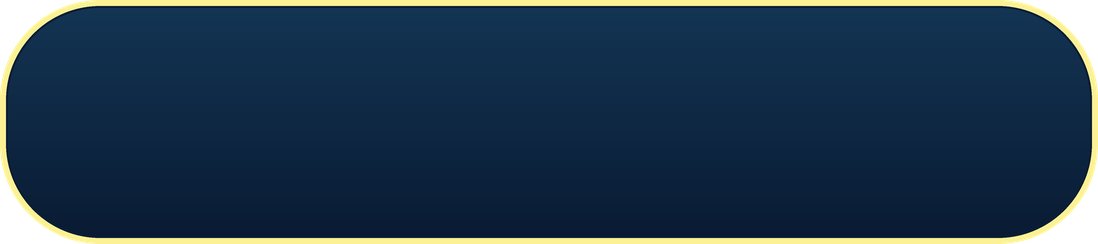
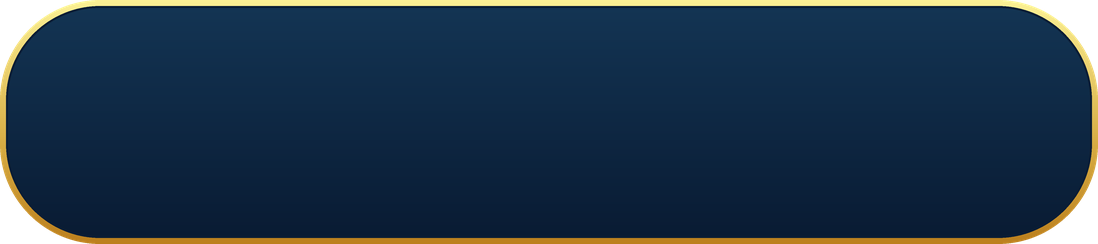
fix(ui): the other two gold pills get their gradient rim
S_DailyPillPanel and S_GpsPill baked a SOLID #FCF195 rim. The Figma component
they both come from strokes with a three-stop vertical gradient:

    #FCF195 @0  ->  #D6AB42 @0.6  ->  #BB7F1D @1

Both were written from `get_design_context`, which renders that stroke as
`border-[#fcf195]` — the first stop, silently — so the flat rim was inherited,
not chosen. Confirmed instance by instance from each node's own SVG export
(13994:1963 the daily pill, 14060:4638 the Home GPS pill, 14060:4722 the hub back
pill): all three carry the identical stroke.

The change is one helper per baker — a vertical `gold_plate()` replacing the solid
fill — so the recipe the two scripts share stays a twin of the other's.

VERIFIED AS RENDERED, not just in the PNGs. On Home, sampling the centre column
through each pill:

    GPS pill    rim #FBEF95 (top) -> #BB801E (bottom),  fill #133453 -> #091C34
    daily pill  rim #FCF095 (top) -> #BB801E (bottom)

which is the node's ramp within 1-2/255. The GPS pill also matches its own Figma
reference render at dRGB 1.7 / 2.4 / 0.0 top/mid/bottom — the same reference that
proved the flat rim wrong in the first place.

S_DailyPillGlow is deliberately NOT changed: it is an additive halo, not a rim,
and its baker already documents why the colour is held flat while alpha carries
the falloff. Re-baking it produced byte-identical output, which is the proof this
change touched only what it meant to.
[…]

Changed region(s): [[0.031, 0.8893, 0.9599, 1.0], [0.9599, 0.1721, 1.0, 0.918], [0.0, 0.1721, 0.031, 0.8893]]

diff --git a/Docs/Scripts/make_daily_pill_panel.py b/Docs/Scripts/make_daily_pill_panel.py
@@ -42,7 +42,18 @@ from PIL import Image, ImageDraw, ImageFilter
 # ── The node's tokens, 1x ────────────────────────────────────────────────────
 W, H = 549, 122
 RADIUS = 50
-GOLD = (0xFC, 0xF1, 0x95, 255)   # border-3 #FCF195
+GOLD = (0xFC, 0xF1, 0x95, 255)   # the border's TOP stop; still the flat colour the glow uses
+
+# ⚠ THE BORDER IS A THREE-STOP VERTICAL GRADIENT, AND `get_design_context` DOES NOT SAY SO.
+# Its Tailwind output renders this stroke as `border-[#fcf195]` — the first stop, silently — and
+# that is what this script baked (flat) until 2026-09-02. The node's own SVG export is the truth:
+#   <rect ... stroke="url(#paint1_linear...)" stroke-width="3"/>
+#   <linearGradient id="paint1_linear..."> #FCF195 @0 · #D6AB42 @0.6 · #BB7F1D @1
+# Verified on all three instances of this component: 13994:1963 (this pill), 14060:4638 (the Home
+# GPS pill) and 14060:4722 (the GPS hub back pill). Read the SVG, never the CSS.
+GOLD_STOPS = ((0.0, (0xFC, 0xF1, 0x95)),
+              (0.6, (0xD6, 0xAB, 0x42)),
+              (1.0, (0xBB, 0x7F, 0x1D)))
 INNER = (0x0A, 0x1D, 0x35, 255)  # Pop-Up border-1 #0A1D35
 TOP = (0x13, 0x34, 0x53)         # gradient from
 BOT = (0x09, 0x1B, 0x33)         # gradient to
@@ -65,12 +76,36 @@ def rounded(size, radius, fill):
     return img
 
 
+def _ramp(stops, t):
+    """Multi-stop linear colour ramp, clamped."""
+    t = min(1.0, max(0.0, t))
+    for i in range(len(stops) - 1):
+        t0, c0 = stops[i]
+        t1, c1 = stops[i + 1]
+        if t0 <= t <= t1:
+            f = 0.0 if t1 == t0 else (t - t0) / (t1 - t0)
+            return tuple(round(a + (b - a) * f) for a, b in zip(c0, c1))
+    return stops[-1][1]
+
+
+def gold_plate(size, radius):
+    """The border plate as a VERTICAL gradient, masked to the pill silhouette."""
+    w, h = size
+    col = Image.new("RGBA", (1, h))
+    for y in range(h):
+        col.putpixel((0, y), _ramp(GOLD_STOPS, y / max(1, h - 1)) + (255,))
+    plate = col.resize((w, h), Image.NEAREST)
+    plate.putalpha(rounded(size, radius, (255, 255, 255, 255)).getchannel("A"))
+    return plate
+
+
 def build() -> Image.Image:
     s = SCALE * SS
     w, h = W * s, H * s
 
     # 1. The gold plate — the outermost 3px ring is whatever of this stays uncovered.
-    out = rounded((w, h), RADIUS * s, GOLD)
+    #    Graded top-to-bottom, per the node's three-stop stroke (see GOLD_STOPS).
+    out = gold_plate((w, h), RADIUS * s)
 
     # 2. The 1px inner rule, inset by the gold border.
     i1 = GOLD_PX * s

diff --git a/Docs/Scripts/make_gps_pill.py b/Docs/Scripts/make_gps_pill.py
@@ -43,7 +43,18 @@ from PIL import Image, ImageDraw
 # ── The node's tokens, 1x ────────────────────────────────────────────────────
 W, H = 138, 92
 RADIUS = 50
-GOLD = (0xFC, 0xF1, 0x95, 255)   # border-3 #FCF195
+GOLD = (0xFC, 0xF1, 0x95, 255)   # the border's TOP stop; still the flat colour the glow uses
+
+# ⚠ THE BORDER IS A THREE-STOP VERTICAL GRADIENT, AND `get_design_context` DOES NOT SAY SO.
+# Its Tailwind output renders this stroke as `border-[#fcf195]` — the first stop, silently — and
+# that is what this script baked (flat) until 2026-09-02. The node's own SVG export is the truth:
+#   <rect ... stroke="url(#paint1_linear...)" stroke-width="3"/>
+#   <linearGradient id="paint1_linear..."> #FCF195 @0 · #D6AB42 @0.6 · #BB7F1D @1
+# Verified on all three instances of this component: 13994:1963 (this pill), 14060:4638 (the Home
+# GPS pill) and 14060:4722 (the GPS hub back pill). Read the SVG, never the CSS.
+GOLD_STOPS = ((0.0, (0xFC, 0xF1, 0x95)),
+              (0.6, (0xD6, 0xAB, 0x42)),
+              (1.0, (0xBB, 0x7F, 0x1D)))
 INNER = (0x0A, 0x1D, 0x35, 255)  # Pop-Up border-1 #0A1D35
 TOP = (0x13, 0x34, 0x53)         # gradient from
 BOT = (0x09, 0x1B, 0x33)         # gradient to
@@ -62,12 +73,36 @@ def rounded(size, radius, fill):
     return img
 
 
+def _ramp(stops, t):
+    """Multi-stop linear colour ramp, clamped."""
+    t = min(1.0, max(0.0, t))
+    for i in range(len(stops) - 1):
+        t0, c0 = stops[i]
+        t1, c1 = stops[i + 1]
+        if t0 <= t <= t1:
+            f = 0.0 if t1 == t0 else (t - t0) / (t1 - t0)
+            return tuple(round(a + (b - a) * f) for a, b in zip(c0, c1))
+    return stops[-1][1]
+
+
+def gold_plate(size, radius):
+    """The border plate as a VERTICAL gradient, masked to the pill silhouette."""
+    w, h = size
+    col = Image.new("RGBA", (1, h))
+    for y in range(h):
+        col.putpixel((0, y), _ramp(GOLD_STOPS, y / max(1, h - 1)) + (255,))
+    plate = col.resize((w, h), Image.NEAREST)
+    plate.putalpha(rounded(size, radius, (255, 255, 255, 255)).getchannel("A"))
+    return plate
+
+
 def build() -> Image.Image:
     s = SCALE * SS
     w, h = W * s, H * s
 
     # 1. The gold plate — the outermost 3px ring is whatever of this stays uncovered.
-    out = rounded((w, h), RADIUS * s, GOLD)
+    #    Graded top-to-bottom, per the node's three-stop stroke (see GOLD_STOPS).
+    out = gold_plate((w, h), RADIUS * s)
 
     # 2. The 1px inner rule, inset by the gold border.
     i1 = GOLD_PX * s

diff --git a/Docs/Architecture/UI_ELEMENT_PALETTE.md b/Docs/Architecture/UI_ELEMENT_PALETTE.md
@@ -56,16 +56,19 @@ SCRIPT, never the PNG.
 > `#FCF195 → #D6AB42 (0.6) → #BB7F1D`. All three came from trusting the tool's Tailwind output,
 > which renders that stroke as `border-[#fcf195]` — the first stop, silently.
 >
-> | sprite | baker | rim |
-> |---|---|---|
-> | `S_DailyPillPanel.png` (Home daily pill) | `make_daily_pill_panel.py` | flat — **wrong** |
-> | `S_GpsPill.png` (Home GPS entry pill) | `make_gps_pill.py` | flat — **wrong** |
-> | `S_GpsBackPill.png` (GPS hub back pill) | `make_gps_back_pill.py` | 3-stop gradient — correct |
+> | sprite | baker | node | rim |
+> |---|---|---|---|
+> | `S_DailyPillPanel.png` (Home daily pill) | `make_daily_pill_panel.py` | `13994:1963` | 3-stop gradient ✓ |
+> | `S_GpsPill.png` (Home GPS entry pill) | `make_gps_pill.py` | `14060:4638` | 3-stop gradient ✓ |
+> | `S_GpsBackPill.png` (GPS hub back pill) | `make_gps_back_pill.py` | `14060:4722` | 3-stop gradient ✓ |
 >
-> Proof for the middle row is in that task's own folder: sample
-> `Docs/Specs/Active/gps_pill_entry/reference/gps_pill_14060-4638_4x.png` and the rim reads
-> `#FBF094 / #DBB54E / #BB7F1D` top/middle/bottom, while the shipped sprite reads `#FCF195`
-> throughout. Both are one `GOLD = ...` line away from correct.
+> **All three were flat until 2026-09-02**, and each was one `GOLD = ...` line from correct. Every
+> one of the three instances carries the identical stroke, verified from its own SVG export. Fixed
+> together; measured as RENDERED on Home afterwards, not just in the PNGs — the GPS pill's rim reads
+> `#FBEF95` at the top and `#BB801E` at the bottom, the daily pill's `#FCF095` → `#BB801E`.
+>
+> `S_DailyPillGlow.png` deliberately stays FLAT. It is an additive halo, not a rim, and its baker
+> already documents why the colour is held flat while alpha carries the falloff.
 >
 > **Rule: before baking any stroke or fill, read the node's SVG, not the CSS.**
 > `download_assets(nodeId, defaultFormat="svg")` and look for `stroke="url(#paint…)"` /
@@ -83,7 +86,7 @@ SCRIPT, never the PNG.
 |---|---|---|---|---|
 | RP value pill (navy) | `Assets/Art/RankingsScreen/RPContainer.png` | `9106f5ea13a81ca4c8dc7b2671c853bf` | dark rounded RP-cost/amount container (coin + number) | Rankings, stamina-shop RP chips |
 | Stadium pill (badge base) | `Assets/Art/Tournaments/S_PillStadium.png` | `bb07d102185aa4f1ca51da13de9eeac6` | outer rim of tier / entry-fee / status badges | Tournaments `PaidEntryBadge`, shop tier badges |
-| Gold-bordered navy pill | `Assets/Art/HomeScreen/S_DailyPillPanel.png` | `448cb5f34eebb4b38962e7959d0a11ed` | navy pill with the Figma 3px gold border (**see the gradient-stroke warning below — this sprite bakes it FLAT**) + `#133453→#091B33` gradient, r=50. Baked at 2× and **9-sliced**: border 100 sprite-px with `pixelsPerUnitMultiplier = 2` → 50 UI px, which fits any width ≥ 101 at the authored 122 height | Home daily-mission pill (549 with the streak flame, 481 without) |
+| Gold-bordered navy pill | `Assets/Art/HomeScreen/S_DailyPillPanel.png` | `448cb5f34eebb4b38962e7959d0a11ed` | navy pill with the Figma 3px gold border (a **3-stop gradient** — see the warning below) + `#133453→#091B33` gradient, r=50. Baked at 2× and **9-sliced**: border 100 sprite-px with `pixelsPerUnitMultiplier = 2` → 50 UI px, which fits any width ≥ 101 at the authored 122 height | Home daily-mission pill (549 with the streak flame, 481 without) |
 | Soft gold halo for the above | `Assets/Art/HomeScreen/S_DailyPillGlow.png` | `086acc78ed8a34ce090a7cec8d2d5aea` | the pulsing glow behind that pill — the silhouette in border-gold, Gaussian-blurred, 36px bleed. Additive (`TapSparkle_Additive.mat`), 9-sliced at border 172 sprite-px / ppum 2 → 86 UI px | Home daily-mission pill |
 
 > **Why the pill is baked, not 9-sliced** (`daily_mission_home_pill`, 2026-08-30). A whole-project
